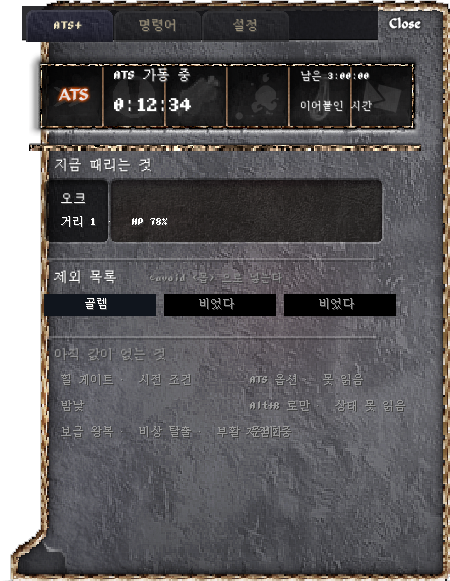
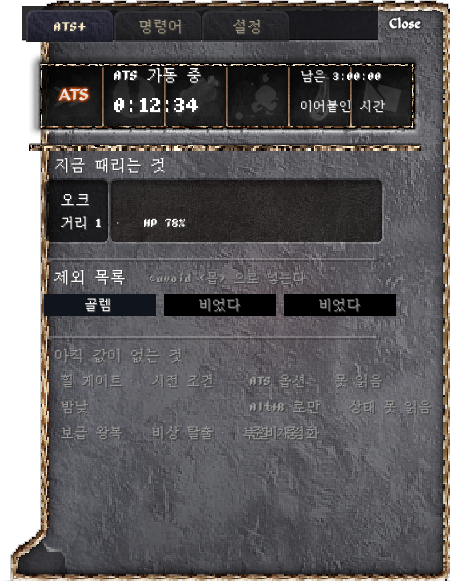
바이올렛 UI 스냅샷 갱신 2026-08-19 11:39

diff --git a/tools/violet-ui.html b/tools/violet-ui.html
@@ -140,7 +140,7 @@
 // ⛔이 줄은 snap_to_site.py 가 통째로 갈아끼운다. 손으로 고치지 마라.
 //   🔑정적 파일은 4시간 캐시된다 ⇒ 같은 경로에 새 PNG 를 올려도 폰은 옛 그림을 본다.
 //     HTML 만 max-age=0 이라, ★버전을 HTML 안에 두고 그림 주소에 붙인다.
-const SNAP = {"at": "2026-08-19 10:51", "v": "20260819105152"};
+const SNAP = {"at": "2026-08-19 11:39", "v": "20260819113911"};
 
 document.getElementById('shot-at').textContent = SNAP.at;
 
